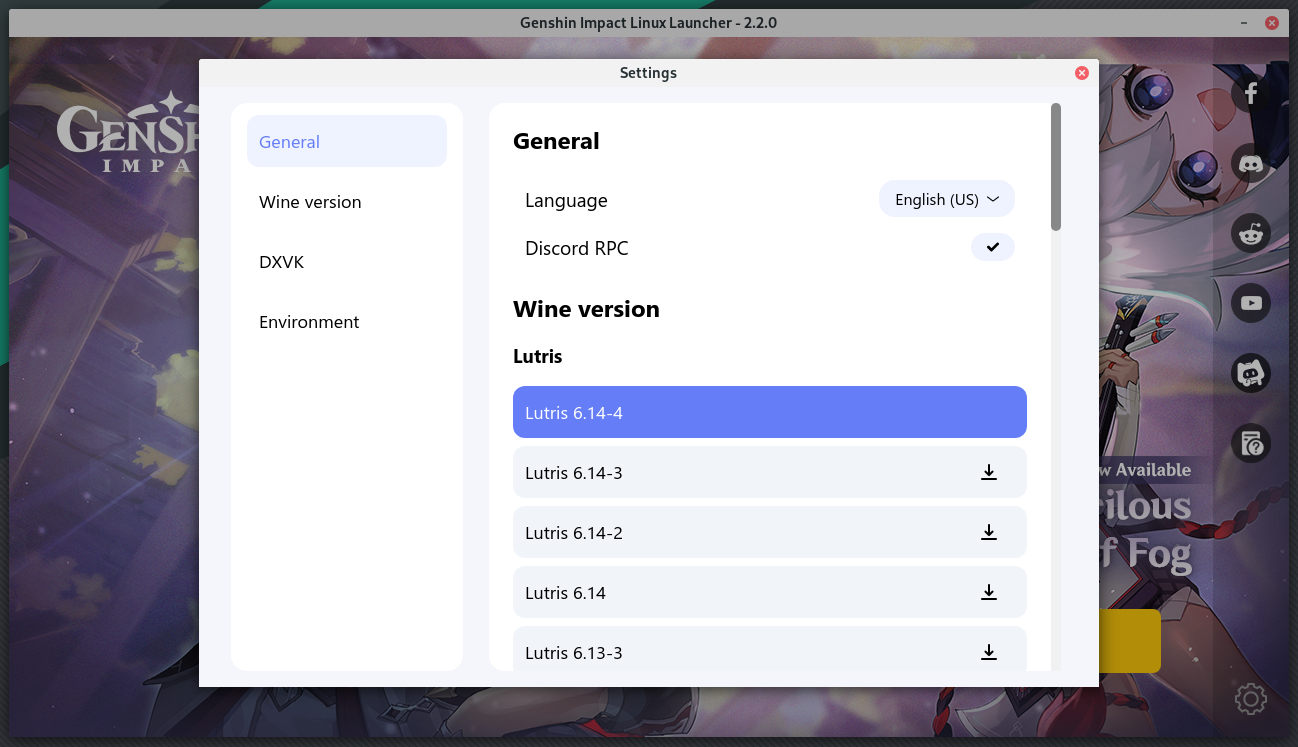
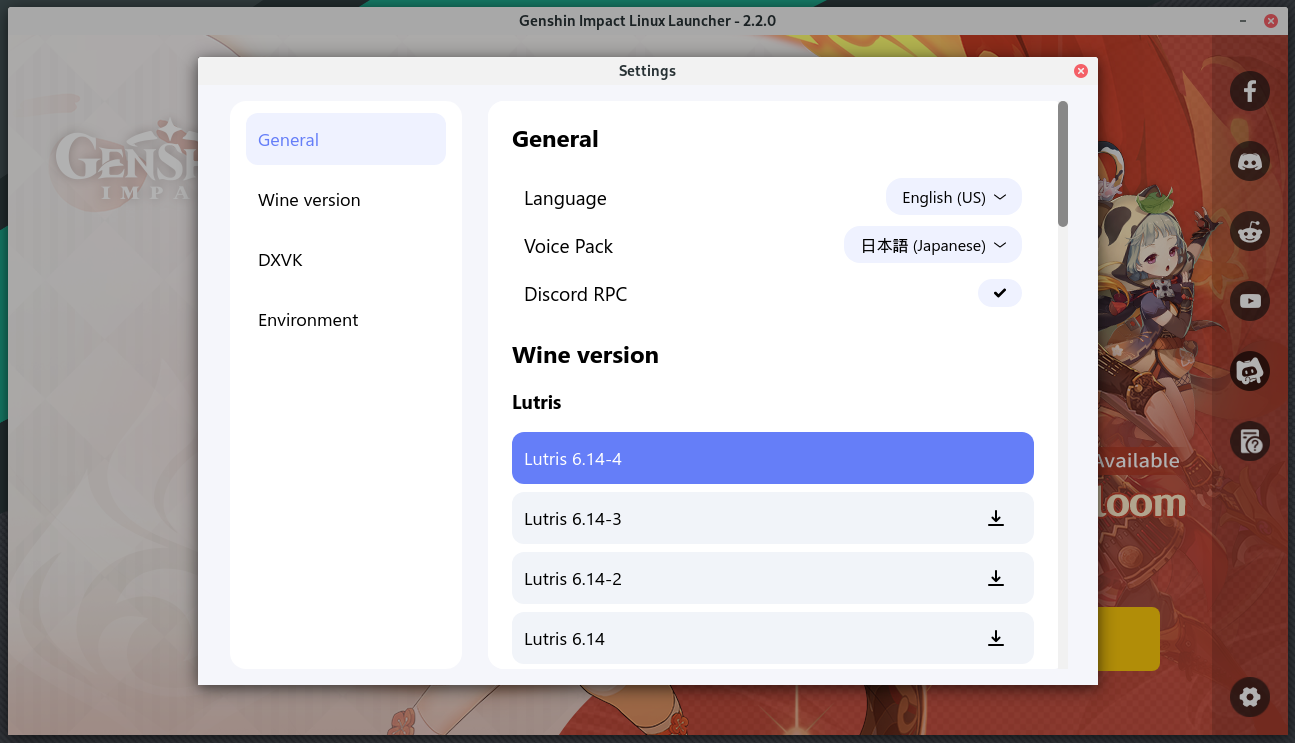
1.3.1 - updated Japanese locale - updated repository pictures
Minor changes:
- repainted settings button icon with the other buttons style
- changed default launcher title for conspiracy
- added roadmap goal

diff --git a/README.md b/README.md
@@ -10,7 +10,7 @@
 
 | Game version | Launcher version | Patch version |
 | :---: | :---: | :---: |
-| 2.2.0 | 1.3.0 | 2.2.0 stable ✅ |
+| 2.2.0 | 1.3.1 | 2.2.0 stable ✅ |
 
 Download from [Releases](https://notabug.org/nobody/an-anime-game-launcher/releases)
 
